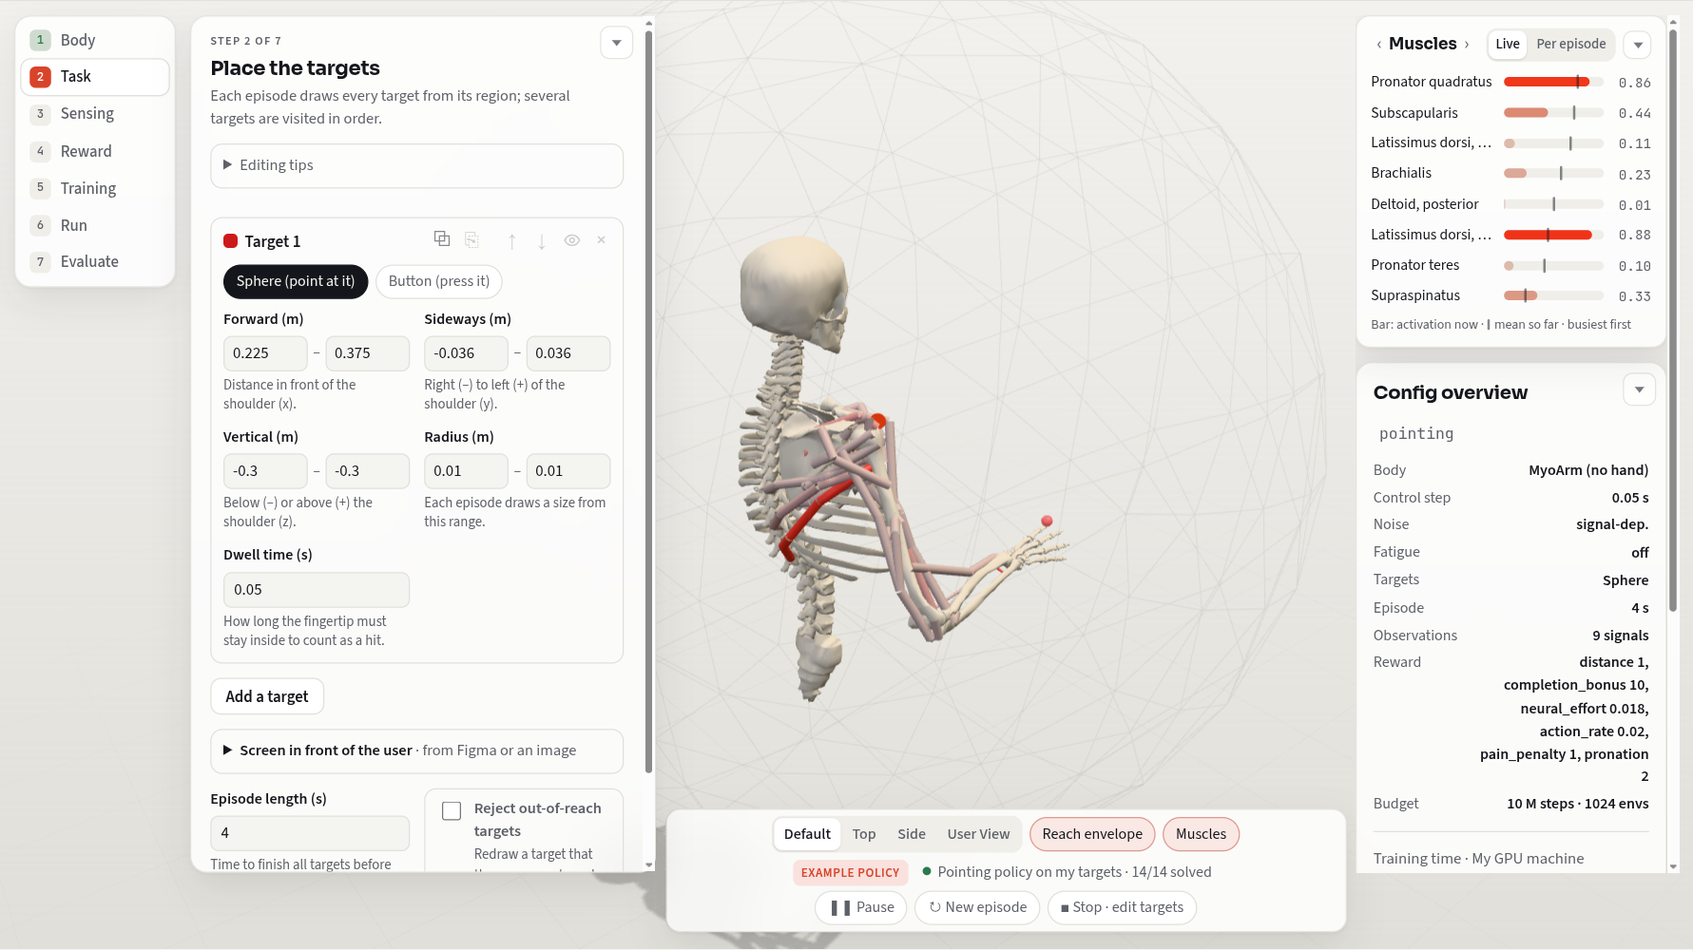
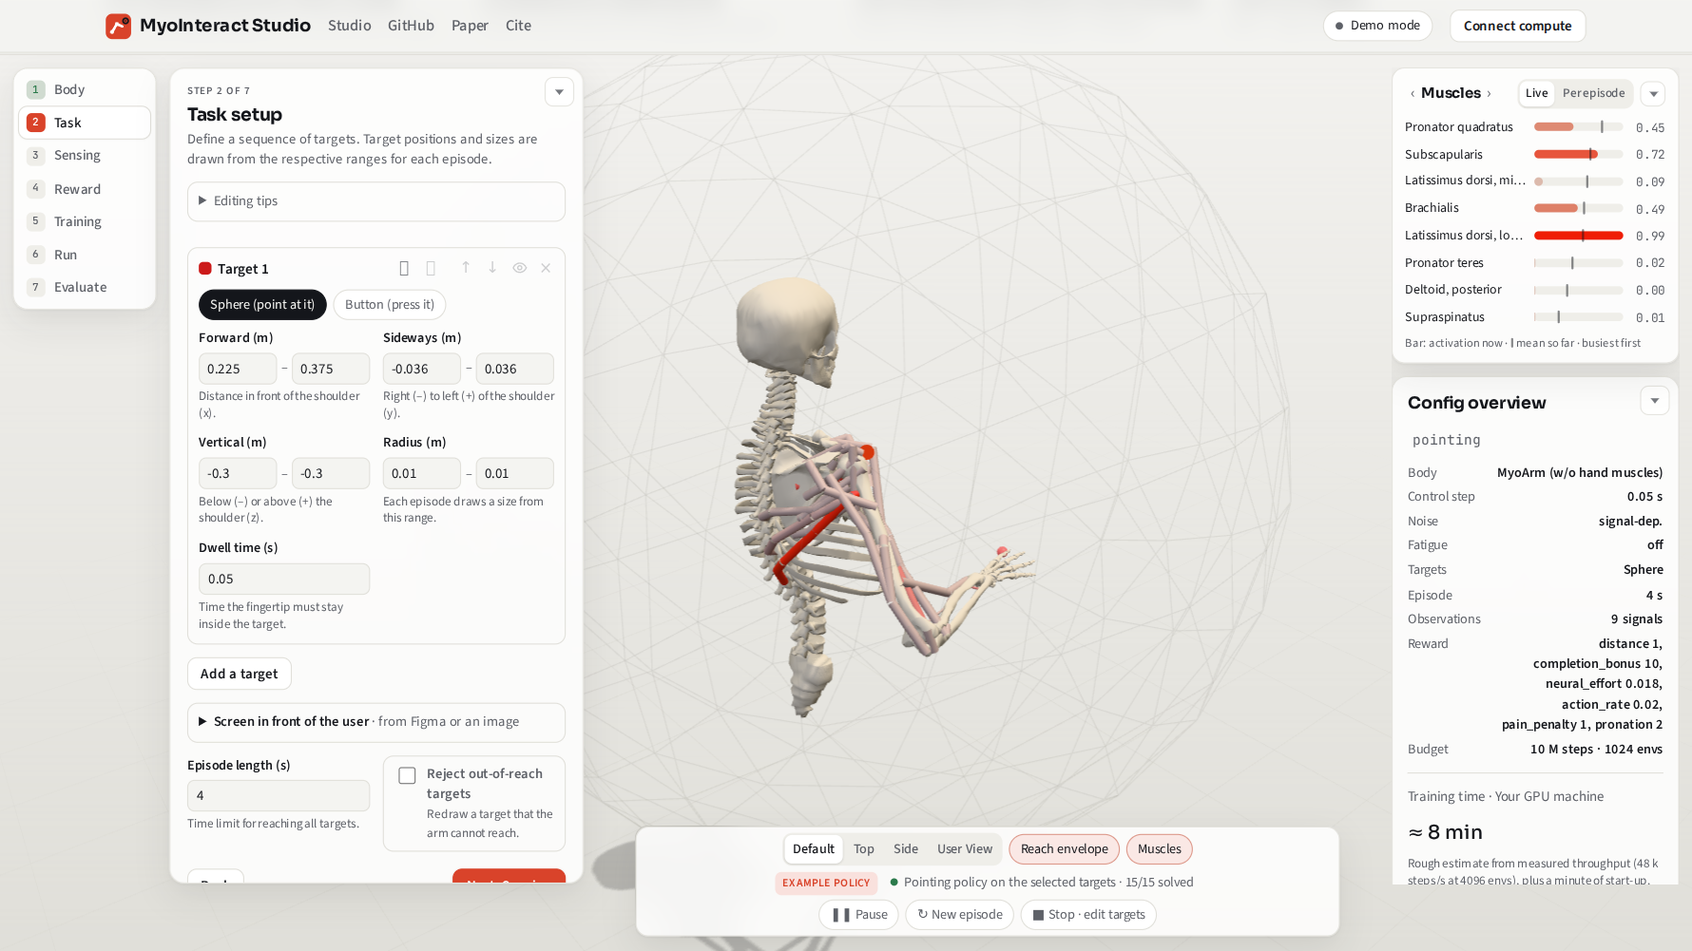
Studio: shorter step texts, "Train a muscle-driven user model", Cite MyoInteract
Body notes shortened, "hand"/"pointing" tags dropped, fatigue marked
experimental, the 3D view walkthrough card describes the view, a pressed
sensing chip stays readable on hover; new README screenshot.

Changed region(s): [[0.0, 0.0, 1.0, 1.0], [0.4326, 0.248, 0.6489, 0.744]]

diff --git a/myoInteract/studio/static/index.html b/myoInteract/studio/static/index.html
@@ -194,6 +194,7 @@ input[type="range"] { width: 100%; accent-color: var(--accent); }
 .chip { font: inherit; font-size: 0.8rem; padding: 4px 10px; border-radius: 999px; border: 1px solid var(--line); background: var(--surface); color: var(--muted); cursor: pointer; white-space: nowrap; }
 .chip:hover:not(:disabled) { color: var(--ink); border-color: color-mix(in srgb, var(--ink) 25%, var(--line)); }
 .chip[aria-pressed="true"] { background: var(--ink); color: var(--bg); border-color: var(--ink); }
+.chip:not(.tog)[aria-pressed="true"]:hover:not(:disabled) { color: var(--bg); background: color-mix(in srgb, var(--ink) 85%, var(--bg)); border-color: var(--ink); }
 .chip.tog[aria-pressed="true"] { background: color-mix(in srgb, var(--accent) 12%, var(--surface)); color: var(--ink); border-color: color-mix(in srgb, var(--accent) 45%, var(--line)); }
 .chip:disabled { opacity: 0.5; cursor: not-allowed; }
 .group-title { display: flex; justify-content: space-between; gap: 10px; align-items: baseline; flex-wrap: wrap; }
@@ -392,9 +393,9 @@ dialog::backdrop { background: rgba(10, 12, 20, 0.5); }
 <header class="hero">
   <div class="hero-in">
     <div>
-      <h1>Teach a <em>muscle-driven user model</em> to interact with your interface</h1>
+      <h1>Train a <em>muscle-driven user model</em> to interact with your interface</h1>
       <p class="lead">Design an interaction task, train it on a GPU, and inspect the resulting behaviour in your browser.</p>
-      <p class="paper-ref">From the DIS 2026 paper by Ankit Bhattarai, Hannah Selder, Florian Fischer, Arthur Fleig and Per Ola Kristensson. <a href="https://doi.org/10.1145/3800645.3812899" target="_blank" rel="noopener">Read the paper</a> · <button class="link-btn" type="button" data-cite>Cite it</button></p>
+      <p class="paper-ref">From the DIS 2026 paper by Ankit Bhattarai, Hannah Selder, Florian Fischer, Arthur Fleig and Per Ola Kristensson. <a href="https://doi.org/10.1145/3800645.3812899" target="_blank" rel="noopener">Read the paper</a> · <button class="link-btn" type="button" data-cite>Cite MyoInteract</button></p>
       <div class="cta">
         <button class="btn primary" type="button" id="hero-tour">Walkthrough</button>
         <button class="btn" type="button" id="hero-preset">Try the pointing example</button>
@@ -410,8 +411,8 @@ dialog::backdrop { background: rgba(10, 12, 20, 0.5); }
 
 <section class="facts" aria-label="Highlights">
   <div class="fact"><b>Cutting-edge arm and hand models</b><span>MyoArm and MoBL-ARMS, with or without hand muscles</span></div>
-  <div class="fact"><b>Complex pointing sequences</b><span>Spheres to point at, buttons to press</span></div>
-  <div class="fact"><b>Train and evaluate directly in your browser</b><span>MuJoCo in WebAssembly, nothing to install</span></div>
+  <div class="fact"><b>Complex pointing sequences</b><span>consisting of virtual spheres and physical buttons</span></div>
+  <div class="fact"><b>Train and evaluate directly in your browser</b><span>MuJoCo in WebAssembly, requiring no installation</span></div>
   <div class="fact"><b>~50 000 steps/s</b><span>4096 environments on one RTX 5090</span></div>
 </section>
 
@@ -511,11 +512,11 @@ dialog::backdrop { background: rgba(10, 12, 20, 0.5); }
 (function () {
   /* ---------------------------------------------------------------- options (from ui.py) */
   const MODELS = [
-    { id: "MyoArm_nohand", name: "MyoArm (w/o hand muscles)", note: "MyoSuite arm with detailed shoulder musculature (myo_sim 0.2.3); the default for pointing.", tag: "default" },
-    { id: "MyoArm_pointing", name: "MyoArm (index finger pose)", note: "MyoSuite arm whose hand points: index finger straight, the other fingers curled. For buttons and touch screens.", tag: "pointing" },
-    { id: "MyoArm", name: "MyoArm", note: "MyoSuite arm and hand, 63 muscles (myo_sim 0.2.3).", tag: "hand" },
+    { id: "MyoArm_nohand", name: "MyoArm (w/o hand muscles)", note: "MyoSuite arm with detailed shoulder musculature.", tag: "default" },
+    { id: "MyoArm_pointing", name: "MyoArm (index finger pose)", note: "MyoSuite arm with a fixed pointing gesture." },
+    { id: "MyoArm", name: "MyoArm", note: "MyoSuite arm and hand, 63 muscles." },
     { id: "MoBL_Arms_Index", name: "MoBL-ARMS (w/o hand muscles)", note: "Shoulder, elbow and wrist with a pointing finger.", tag: "MoBL-ARMS" },
-    { id: "MoBL_Arms_Hand", name: "MoBL-ARMS", note: "Adds hand and finger joints for button pressing.", tag: "MoBL-ARMS · hand" },
+    { id: "MoBL_Arms_Hand", name: "MoBL-ARMS", note: "Adds the hand and finger muscles.", tag: "MoBL-ARMS" },
   ];
   const RESETS = [
     ["epsilon_uniform", "Rest pose with small random offsets (default)"],
@@ -532,15 +533,15 @@ dialog::backdrop { background: rgba(10, 12, 20, 0.5); }
     task: [["target_pos", "target position"], ["target_size", "target size"], ["phase_progress", "which target is next"], ["dwell_fraction", "time held inside"]],
   };
   const REWARDS = [
-    ["distance", 1, 0, 10, 0.1, "Pays for getting closer to the current target, every step. The main learning signal."],
+    ["distance", 1, 0, 10, 0.1, "Rewards approaching the current target at every step; the main learning signal."],
     ["subtask_bonus", 0, 0, 10, 0.5, "One-off bonus for each target reached in a sequence."],
     ["completion_bonus", 10, 0, 50, 1, "One-off bonus when the whole task is done."],
-    ["neural_effort", 0, 0, 0.1, 0.0001, "Penalises large muscle commands: smoother, more human-like movements."],
+    ["neural_effort", 0, 0, 0.1, 0.0001, "Penalises large muscle commands, for smoother movements."],
     ["body_contact_penalty", 0, 0, 0.01, 0.0001, "Penalises touching the torso with the arm."],
     // The terms below have no slider in the Gradio UI: it keeps a preset's values but cannot change them.
-    ["action_rate", 0, 0, 0.05, 0.0001, "Penalises changing the muscle commands from one step to the next: less jitter.", true],
+    ["action_rate", 0, 0, 0.05, 0.0001, "Penalises abrupt changes of the muscle commands (less jitter).", true],
     ["pain_penalty", 0, 0, 2, 0.01, "Penalises holding a joint beyond its comfortable range.", true],
-    ["pronation", 0, 0, 5, 0.05, "Penalises a forearm turned palm-up: the palm faces down, as people point and press.", true],
+    ["pronation", 0, 0, 5, 0.05, "Penalises turning the palm up.", true],
     ["button_force", 0, 0, 15, 0.05, "Penalises pressing a button harder than a deliberate press (5 N).", true],
   ];
   // Reward terms the Gradio task builder has no control for: stored in presets as Hydra overrides.
@@ -689,23 +690,23 @@ dialog::backdrop { background: rgba(10, 12, 20, 0.5); }
 
   /* ---------------------------------------------------------------- 1 body */
   function renderBody(ws) {
-    ws.append(h(`${head("Choose the body", "Pick the biomechanical user model. All models are muscle-actuated; models without hand muscles suffice for pointing.")}
+    ws.append(h(`${head("Choose the body", "All models are muscle-actuated. Models without hand muscles suffice for pointing.")}
       <div class="cards" id="model-cards"></div>
       <div class="grid2">
-        <div class="field"><label for="ctrl_dt">Control step</label><input id="ctrl_dt" type="number" min="0.01" max="0.2" step="0.01" value="${esc(S.bm.ctrl_dt)}" data-bind="bm.ctrl_dt"><span class="hint">Seconds between two muscle commands. 0.05 s (20 Hz) is a good default; smaller is slower to train.</span></div>
+        <div class="field"><label for="ctrl_dt">Control step</label><input id="ctrl_dt" type="number" min="0.01" max="0.2" step="0.01" value="${esc(S.bm.ctrl_dt)}" data-bind="bm.ctrl_dt"><span class="hint">Seconds between two muscle commands; smaller steps train more slowly.</span></div>
         <div class="field"><label for="reset_type">Start pose</label><select id="reset_type" data-bind="bm.reset_type">${RESETS.map(([v, l]) => `<option value="${v}" ${S.bm.reset_type === v ? "selected" : ""}>${l}</option>`).join("")}</select><span class="hint">Random start poses make the policy more robust.</span></div>
       </div>
       <div class="grid2">
-        <label class="toggle-row"><input type="checkbox" data-bind="bm.sigdepnoise_enabled" ${S.bm.sigdepnoise_enabled ? "checked" : ""}><span><b>Signal-dependent motor noise</b><span>Motor noise grows with the muscle command, as in human motor control. Produces speed-accuracy trade-offs.</span></span></label>
+        <label class="toggle-row"><input type="checkbox" data-bind="bm.sigdepnoise_enabled" ${S.bm.sigdepnoise_enabled ? "checked" : ""}><span><b>Signal-dependent motor noise</b><span>Noise grows with the muscle command, producing speed-accuracy trade-offs.</span></span></label>
         <label class="toggle-row"><input type="checkbox" data-bind="bm.constantnoise_enabled" ${S.bm.constantnoise_enabled ? "checked" : ""}><span><b>Constant motor noise</b><span>A fixed amount of motor noise on every command.</span></span></label>
-        <label class="toggle-row"><input type="checkbox" data-bind="bm.fatigue_enabled" ${S.bm.fatigue_enabled ? "checked" : ""}><span><b>Muscle fatigue</b><span>Muscles tire with use and recover at rest (3-compartment model). Enables the fatigue observations in step 3.</span></span></label>
+        <label class="toggle-row"><input type="checkbox" data-bind="bm.fatigue_enabled" ${S.bm.fatigue_enabled ? "checked" : ""}><span><b>Muscle fatigue (experimental)</b><span>Muscles tire with use and recover at rest. Enables the fatigue observations in step 3.</span></span></label>
       </div>`));
     const cards = ws.querySelector("#model-cards");
     for (const m of MODELS) {
       const b = document.createElement("button");
       b.className = "card"; b.type = "button";
       b.setAttribute("aria-pressed", String(S.bm.bm_model === m.id));
-      b.innerHTML = `<span class="tag">${m.tag}</span><b>${m.name}</b><span>${m.note}</span>`;
+      b.innerHTML = `${m.tag ? `<span class="tag">${m.tag}</span>` : ""}<b>${m.name}</b><span>${m.note}</span>`;
       b.addEventListener("click", () => { S.bm.bm_model = m.id; render(); });
       cards.append(b);
     }
@@ -770,7 +771,7 @@ dialog::backdrop { background: rgba(10, 12, 20, 0.5); }
         ${r("x", "Forward (m)", "Distance in front of the shoulder (x).", -1, 1, 0.005)}
         ${r("y", "Sideways (m)", "Right (–) to left (+) of the shoulder (y).", -1, 1, 0.005)}
         ${r("z", "Vertical (m)", "Below (–) or above (+) the shoulder (z).", -1, 1, 0.005)}
-        ${t.type === "Sphere" ? r("size", "Radius (m)", "Each episode draws a size from this range.", 0.005, 0.2, 0.005) + `<div class="field" ${row("dwell")}><label>Dwell time (s)</label><input type="number" min="0" max="2" step="0.05" value="${esc(t.dwell)}" data-bind="t.${i}.dwell"><span class="hint">How long the fingertip must stay inside to count as a hit.</span></div>`
+        ${t.type === "Sphere" ? r("size", "Radius (m)", "Each episode draws a size from this range.", 0.005, 0.2, 0.005) + `<div class="field" ${row("dwell")}><label>Dwell time (s)</label><input type="number" min="0" max="2" step="0.05" value="${esc(t.dwell)}" data-bind="t.${i}.dwell"><span class="hint">Time the fingertip must stay inside the target.</span></div>`
           : `<div class="field" ${row("force")}><label>Minimum force (N)</label><input type="number" min="0" max="20" step="0.5" value="${esc(t.force)}" data-bind="t.${i}.force"><span class="hint">How hard the button must be pressed.</span></div><div class="field" ${row("angle")}><label>Angle (°)</label><input type="number" min="0" max="180" step="5" value="${esc(t.angle)}" data-bind="t.${i}.angle"><span class="hint">Tilt of the button surface.</span></div>`}
       </div></div>`;
   }
@@ -786,7 +787,7 @@ dialog::backdrop { background: rgba(10, 12, 20, 0.5); }
       <div class="chips"><button class="btn" type="button" id="add-target">Add a target</button></div>
       ${screenHtml()}
       <div class="grid2">
-        <div class="field"><label for="max_duration">Episode length (s)</label><input id="max_duration" type="number" min="1" max="60" step="0.5" value="${esc(S.task.max_duration)}" data-bind="task.max_duration"><span class="hint">Time to finish all targets before the episode ends.</span></div>
+        <div class="field"><label for="max_duration">Episode length (s)</label><input id="max_duration" type="number" min="1" max="60" step="0.5" value="${esc(S.task.max_duration)}" data-bind="task.max_duration"><span class="hint">Time limit for reaching all targets.</span></div>
         <label class="toggle-row"><input type="checkbox" data-bind="task.reject_unreachable" ${S.task.reject_unreachable ? "checked" : ""}><span><b>Reject out-of-reach targets</b><span>Redraw a target that the arm cannot reach.</span></span></label>
       </div>`));
     const box = ws.querySelector("#targets");
@@ -860,18 +861,18 @@ dialog::backdrop { background: rgba(10, 12, 20, 0.5); }
     const sc = S.screen;
     return `<details class="screen-box" ${sc ? "open" : ""}><summary><b>Screen in front of the user</b> <span class="muted">· from Figma or an image</span></summary>
       <div style="display:grid; gap:12px; margin-top:12px">
-        <p class="hint">Place a user interface in the scene. From a Figma frame, its buttons and other controls can become targets that stay on the screen when you move it.</p>
+        <p class="hint">Place a user interface in the scene. The controls of a Figma frame can become targets.</p>
         <div class="field"><label for="figma-url">Figma frame link</label><input type="url" id="figma-url" placeholder="https://www.figma.com/design/…?node-id=…" value="${esc((S.figma && S.figma.url) || "")}"><span class="hint">In Figma, select the frame and use "Copy link to selection".</span></div>
         <div class="field"><label for="figma-token">Personal access token</label><input type="password" id="figma-token" autocomplete="off" placeholder="figd_…" value="${esc(figmaToken())}">
           <label class="hint" style="display:flex; gap:6px; align-items:center"><input type="checkbox" id="figma-remember" ${figmaRemembered() ? "checked" : ""}> Remember the token in this browser</label>
-          <span class="hint">Sent only to Figma (api.figma.com). Unticked, it is kept until this tab closes; ticked, it stays in this browser's storage for this site, readable by anyone using this browser profile. Use a read-only token.</span></div>
+          <span class="hint">Sent only to Figma (api.figma.com). Kept until this tab closes or, if ticked, in this browser profile's storage. Use a read-only token.</span></div>
         <div class="chips"><button class="btn" type="button" id="figma-go">Import from Figma</button></div>
         <div class="chips"><label class="chip" for="screen-file" style="cursor:pointer">Or use an image</label><input type="file" id="screen-file" accept="image/png,image/jpeg,image/webp" hidden></div>
         ${sc ? `<div class="field"><label for="screen-width">Screen width (m)</label><input type="number" id="screen-width" min="0.05" max="2" step="0.01" value="${esc(sc.widthM)}"><span class="hint">${esc(sc.name || "Screen")} · ${Math.round(sc.width)} × ${Math.round(sc.height)} px. Click the screen in the 3D view to move it (M) or rotate it (R).</span></div>
           ${sc.elements && sc.elements.length ? `<div class="chips"><button class="btn" type="button" data-screen-targets="Sphere">Its ${sc.elements.length} elements become sphere targets</button><button class="btn" type="button" data-screen-targets="Button">… or button targets</button></div>${sc.more ? `<span class="hint">${esc(sc.more)} more elements were left out.</span>` : ""}` : ""}
           <div class="chips"><button class="chip" type="button" id="screen-remove">Remove the screen</button></div>` : ""}
         <span class="muted" id="screen-msg" role="status"></span>
-        <p class="hint">The screen is a visual aid for placing targets. It is not part of the training configuration, so a vision policy does not see it yet.</p>
+        <p class="hint">The screen is a visual aid only: it is not part of training, so vision policies do not see it.</p>
       </div></details>`;
   }
   // The Figma token: for this tab only, or (opt-in) kept in this browser's storage. It never leaves for anywhere but Figma.
@@ -1502,7 +1503,7 @@ dialog::backdrop { background: rgba(10, 12, 20, 0.5); }
 
   /* ---------------------------------------------------------------- 5 training */
   function renderTraining(ws) {
-    ws.append(h(`${head("Training budget and compute", "Pointing is usually learned within 10–50 M steps; the defaults are a good starting point.")}
+    ws.append(h(`${head("Training budget and compute", "Pointing is usually learned within 10–50 M steps.")}
       <div class="cards" id="target-cards"></div>
       <div class="grid2">
         <div class="field"><label for="rl-steps">Total steps</label><input id="rl-steps" type="number" min="100000" step="1000000" value="${esc(S.rl.steps)}" data-bind="rl.steps"><span class="hint">Simulated control steps over all environments.</span></div>
@@ -1757,7 +1758,7 @@ dialog::backdrop { background: rgba(10, 12, 20, 0.5); }
     if (S.examples.length) return renderEvaluateExamples(ws);
     const has = S.run && S.run.pts.length;
     const last = has ? S.run.pts[S.run.pts.length - 1] : null;
-    ws.append(h(`${head("Evaluate", "Evaluate a policy on new episodes with respect to success, time, effort and muscle activity.")}
+    ws.append(h(`${head("Evaluate", "Success, time, effort and muscle activity on new episodes.")}
       <p class="demo-banner">Demo mode: these numbers are simulated. Connect a backend to evaluate real checkpoints.</p>
       <div class="stat-row">
         <div class="stat"><b>${has ? Math.round(last[1] * 100 * 0.97) + "%" : "–"}</b><span>success rate</span></div>
@@ -1829,7 +1830,7 @@ dialog::backdrop { background: rgba(10, 12, 20, 0.5); }
     // the example chosen here, else the one trained on the task in the editor, else the first
     const ex = S.examples.find((e) => e.name === S.exampleSel) || S.examples.find((e) => e.name === S.preset) || S.examples[0];
     const mine = ex.name === S.preset, exTargets = () => exampleTargets(ex);
-    ws.append(h(`${head("Evaluate", "Evaluate a policy on new episodes with respect to success, time, effort and muscle activity.")}
+    ws.append(h(`${head("Evaluate", "Success, time, effort and muscle activity on new episodes.")}
       <p class="demo-banner">Pretrained example policies with stored results. <button class="link-btn" type="button" data-connect>Connect compute</button> to evaluate your own runs, or any policy on the setup in the editor (out of distribution).</p>
       <p class="mode-note"><span class="mode-badge eval">Evaluation</span>${mine ? `The ${esc(ex.title)} policy, on the task it was trained on.` : `The ${esc(ex.title)} example on <b>its own task</b>, not the one in the editor. <a href="#" id="ex-open-note">Open its task in the editor</a> to work on it.`}</p>
       <div class="field"><label for="ex-sel">Example policy</label><select id="ex-sel">${S.examples.map((e) => `<option value="${esc(e.name)}" ${e === ex ? "selected" : ""}>${esc(e.title)}</option>`).join("")}</select>
@@ -1837,7 +1838,7 @@ dialog::backdrop { background: rgba(10, 12, 20, 0.5); }
       <div class="chips">${ex.sim && S.evalMode === "live" ? "" : `<span class="hint">The 3D view replays a recorded rollout.</span>`}<button class="btn small" type="button" id="ex-open">Open the task in the editor</button></div>
       <p class="err" id="ex-msg" hidden></p>
       ${statRow(ex.evaluation, exTargets)}
-      ${ex.sim && S.evalMode === "live" ? `<p class="hint">Simulated in your browser with MuJoCo, with a new start pose and new targets every episode${ex.summary && ex.summary.fatigue ? ", from a random fatigue state" : ""}. <span id="sim-stats">${S.sim ? simStats(S.sim) : ""}</span> <a href="#" id="sim-reset" title="Start the count again from a new episode">Reset</a></p><p class="hint">The live dashboard shows the busiest muscles and the most stressed joints, live and per episode. "Play example policy" in the Task step runs it on the selected target ranges.</p>` : ""}`));
+      ${ex.sim && S.evalMode === "live" ? `<p class="hint">Simulated in your browser with MuJoCo, with a new start pose and new targets every episode${ex.summary && ex.summary.fatigue ? ", from a random fatigue state" : ""}. <span id="sim-stats">${S.sim ? simStats(S.sim) : ""}</span> <a href="#" id="sim-reset" title="Start the count again from a new episode">Reset</a></p><p class="hint">"Play example policy" in the Task step runs it on the selected target ranges.</p>` : ""}`));
     if (ws.querySelector("#sim-reset")) ws.querySelector("#sim-reset").addEventListener("click", (e) => {
       e.preventDefault();
       const sim = S.sim;
@@ -1891,7 +1892,7 @@ dialog::backdrop { background: rgba(10, 12, 20, 0.5); }
     const resTargets = () => (res ? targetsHtml(res.targets_reached, (run && run.example ? run.example.replay.hello.targets : S.live ? S.live.targets : []).map((t) => t.rgba), null, `share of ${res.episodes} episodes`) : "");
     const opt = (r) => `<option value="${esc(r.id)}" ${run && r.id === run.id ? "selected" : ""}>${esc(r.name)}${runSummary(r) ? " · " + esc(runSummary(r)) : ""} · ${r.checkpoints.length} checkpoint${r.checkpoints.length === 1 ? "" : "s"}</option>`;
     const group = (label, list) => (list.length ? `<optgroup label="${label}">${list.map(opt).join("")}</optgroup>` : "");
-    ws.append(h(`${head("Evaluate", "Evaluate a policy on new episodes with respect to success, time, effort and muscle activity.")}
+    ws.append(h(`${head("Evaluate", "Success, time, effort and muscle activity on new episodes.")}
       ${live.length ? `<p class="muted">Training now: <b>${esc(live.map((r) => r.name).join(", "))}</b>. Its newest checkpoint appears here within seconds of being saved; switch to <a href="#" data-go-step="5">Train</a> for the curves.</p>` : ""}
       <div class="grid2">
         <div class="field"><label for="ev-run">Run</label><select id="ev-run">${runs.length ? group("Training now", live) + group("Started in Studio", studio) + group("Other runs (logs/rsl_rl)", other) + group("Example policies", examples) : "<option>No runs with checkpoints yet</option>"}</select>
@@ -2343,7 +2344,7 @@ dialog::backdrop { background: rgba(10, 12, 20, 0.5); }
     { el: "#stepper", title: "Seven steps", text: "Studio takes a task from the body model to an evaluated policy. You can either follow the steps in order or jump between them as you wish." },
     { step: 0, el: "#workspace", title: "1 · Body", text: "Pick the biomechanical user model: MyoArm or MoBL-ARMS, with or without hand muscles. All models are muscle-actuated." },
     { step: 1, el: "#workspace", title: "2 · Task Setup", text: "Define an arbitrary sequence of spheres to point at or buttons to press. Target positions and sizes are drawn from the respective ranges for each episode. A Figma frame or an image can serve as the screen." },
-    { step: 1, el: "#stage", title: "The 3D view", text: "Targets and their sampling areas can also be dragged here. \"Play example policy\" runs a trained policy on the selected target ranges." },
+    { step: 1, el: "#stage", title: "The 3D view", text: "Inspect the interaction scene in 3D view. Targets and their sampling areas can be dragged here." },
     { step: 1, el: "#scene-bar", title: "View Panel", text: "Here you can change the view and define visible layers." },
     { step: 2, el: "#workspace", title: "3 · Sensing", text: "Define the observation space of the simulated user." },
     { step: 3, el: "#workspace", title: "4 · Reward", text: "Balancing reward terms is essential to ensure the agent succeeds while maintaining plausible movements and muscle activations." },
